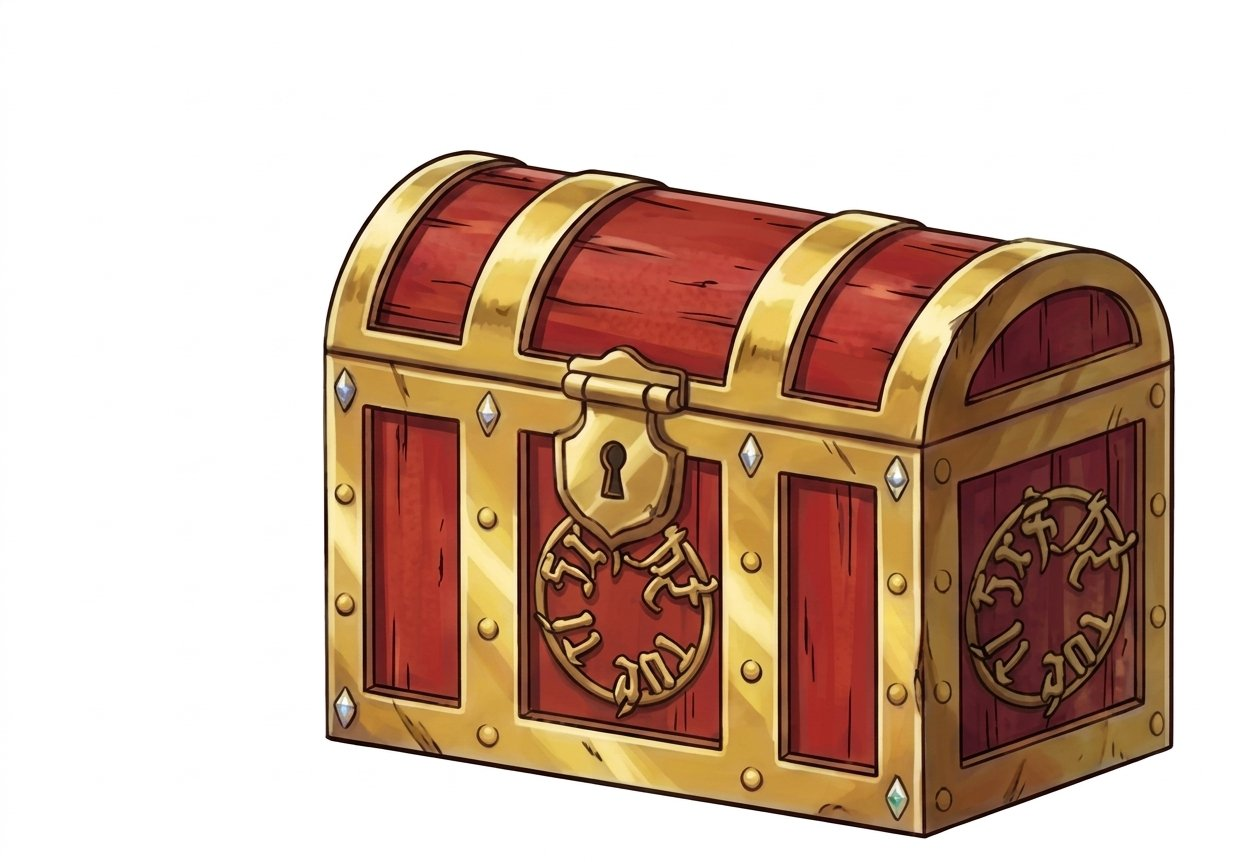
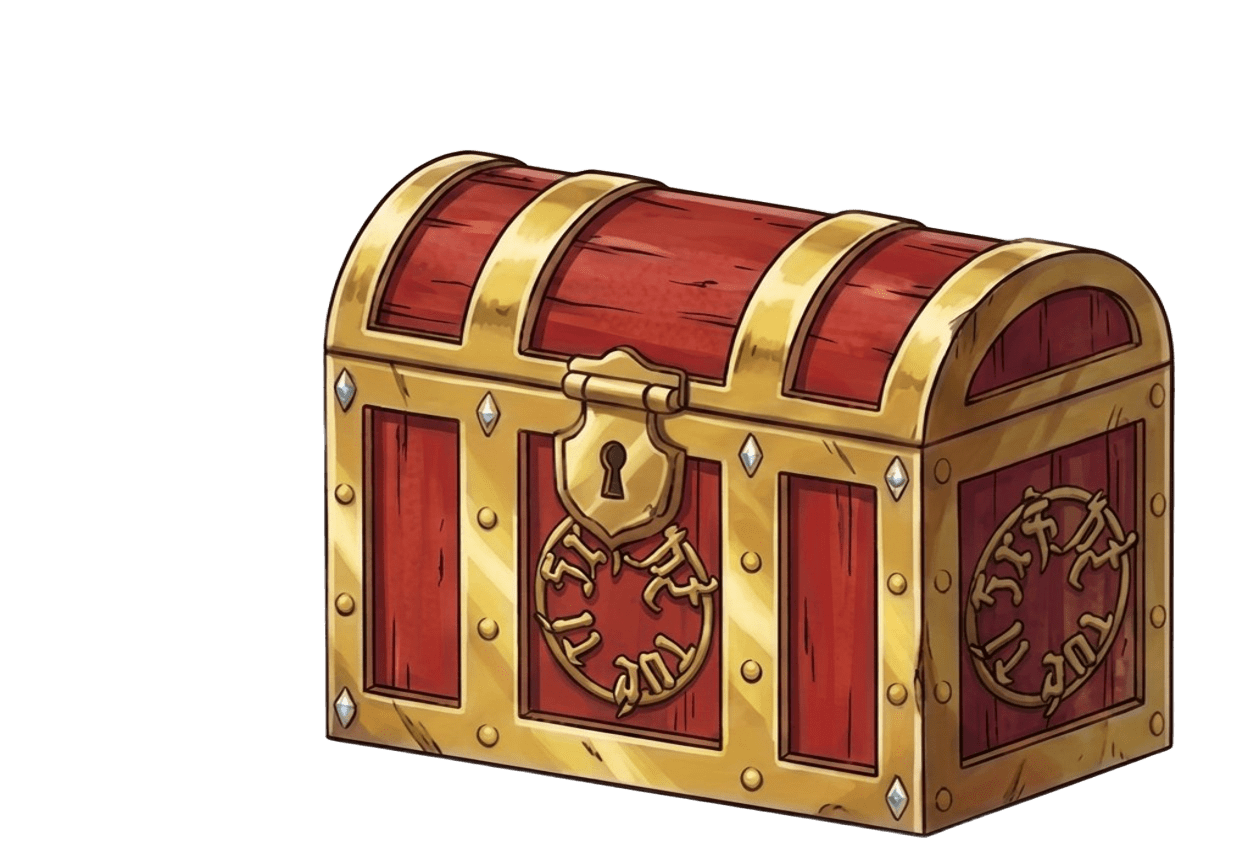
修正注音格式5

Changed region(s): [[0.7188, 0.9652, 0.75, 0.9954], [0.4062, 0.8747, 0.4375, 0.9049]]

diff --git a/js/games/typo.js b/js/games/typo.js
@@ -296,16 +296,16 @@ export class TypoGame extends GameEngine {
 
     // ── 步驟四：星星從寶箱飛出 ──
     const stage = overlay.querySelector('.typo-anim-stage');
-    const starsCount = Math.min(Math.max(Math.round(stars * 2), 5), 16);
+    const starsCount = Math.min(Math.max(Math.round(stars * 3), 10), 24);
     for (let i = 0; i < starsCount; i++) {
       const s = document.createElement('div');
       s.className = 'typo-fly-star';
-      s.textContent = '⭐';
-      const angle = (i / starsCount) * 360;
-      const dist = 80 + Math.random() * 60;
+      s.textContent = i % 3 === 0 ? '🌟' : '⭐';
+      const angle = (i / starsCount) * 360 + Math.random() * 15;
+      const dist = 120 + Math.random() * 100;
       s.style.setProperty('--angle', `${angle}deg`);
       s.style.setProperty('--dist', `${dist}px`);
-      s.style.animationDelay = `${i * 40}ms`;
+      s.style.animationDelay = `${i * 35}ms`;
       stage.appendChild(s);
     }
 
@@ -348,7 +348,7 @@ export class TypoGame extends GameEngine {
     let radical = q.radical ?? '';
     if (!radical) {
       try {
-        const chars = globalThis.JSONLoader?.get?.('characters') ?? [];
+        const chars = JSONLoader.get('characters') ?? [];
         const entry = chars.find(c => (c['字'] ?? c.char) === q.correct);
         radical = entry?.radical ?? entry?.['部首'] ?? '';
       } catch (_e) {}
@@ -389,7 +389,7 @@ export class TypoGame extends GameEngine {
       let radical = question.radical ?? '';
       if (!radical) {
         try {
-          const chars = globalThis.JSONLoader?.get?.('characters') ?? [];
+          const chars = JSONLoader.get('characters') ?? [];
           const entry = chars.find(c => (c['字'] ?? c.char) === question.correct);
           radical = entry?.radical ?? entry?.['部首'] ?? '？';
         } catch (_e) { radical = '？'; }
@@ -941,7 +941,7 @@ function _findWrongPos(sentence, wrongChar) {
 function _getRadical(explanation, correctChar) {
   // 從 JSONLoader 快取的 characters.json 查部首
   try {
-    const chars = globalThis.JSONLoader?.get?.('characters') ?? [];
+    const chars = JSONLoader.get('characters') ?? [];
     const entry = chars.find(c => (c['字'] ?? c.char) === correctChar);
     if (entry?.radical) return entry.radical;
     if (entry?.['部首']) return entry['部首'];
@@ -1219,7 +1219,7 @@ export function injectTypoStyles() {
     .typo-anim-overlay {
       position: fixed;
       inset: 0;
-      background: rgba(0,0,0,0.55);
+      background: rgba(0,0,0,0.65);
       z-index: 999;
       display: flex;
       align-items: center;
@@ -1228,22 +1228,23 @@ export function injectTypoStyles() {
     }
     .typo-anim-stage {
       position: relative;
-      width: 200px;
-      height: 200px;
+      width: min(80vw, 400px);
+      height: min(80vw, 400px);
       display: flex;
       align-items: center;
       justify-content: center;
     }
     .typo-anim-chest {
-      width: 140px;
-      height: 140px;
+      width: 85%;
+      height: 85%;
       object-fit: contain;
       position: relative;
       z-index: 2;
+      filter: drop-shadow(0 8px 32px rgba(0,0,0,0.5));
     }
     .typo-anim-key-emoji {
       position: absolute;
-      font-size: 3rem;
+      font-size: min(12vw, 5rem);
       top: 50%;
       left: 50%;
       transform: translate(-50%, -50%);
@@ -1252,13 +1253,13 @@ export function injectTypoStyles() {
     }
     .typo-fly-star {
       position: absolute;
-      font-size: 1.4rem;
+      font-size: min(6vw, 2rem);
       top: 50%;
       left: 50%;
       pointer-events: none;
-      animation: typoStarFly 1.0s ease-out forwards;
+      animation: typoStarFly 1.2s ease-out forwards;
       --angle: 0deg;
-      --dist: 100px;
+      --dist: min(40vw, 180px);
     }
 
     @keyframes typoChestZoomIn {
@@ -1485,17 +1486,18 @@ export function injectTypoStyles() {
       100% { transform: translate(-50%,-50%) scale(1);   opacity:1; }
     }
     .typo-star-popup {
-      position: fixed;
-      top: 40%;
+      position: absolute;
+      top: 50%;
       left: 50%;
-      transform: translateX(-50%);
-      font-size: 1.8rem;
+      transform: translate(-50%, -50%);
+      font-size: min(12vw, 3.5rem);
       font-weight: 900;
       color: #f5c842;
-      text-shadow: 0 2px 8px rgba(0,0,0,0.25);
-      animation: starFloat 1.2s ease forwards;
-      z-index: 101;
+      text-shadow: 0 4px 16px rgba(0,0,0,0.5), 0 0 24px #fff;
+      animation: starFloat 1.4s ease forwards;
+      z-index: 10;
       pointer-events: none;
+      white-space: nowrap;
     }
     @keyframes starFloat {
       0%   { opacity:0; transform: translateX(-50%) translateY(0); }

diff --git a/js/games/polyphone.js b/js/games/polyphone.js
@@ -696,6 +696,21 @@ export class PolyphoneGame extends GameEngine {
     }
   }
 
+  // 覆寫 updateProgress：多音判斷不使用預設連續3/5/10題bonus顯示，只在10倍數顯示
+  updateProgress() {
+    super.updateProgress();
+    // 蓋掉 GameEngine 預設 bonus bar（只有 10 的倍數才在 onCorrect 裡顯示）
+    const bonusBar = document.getElementById('game-bonus-bar');
+    if (bonusBar) {
+      const c = this.consecutiveCorrect;
+      if (c > 0 && c % 10 === 0) {
+        // 剛好 10 倍數：保留 onCorrect 設的文字
+      } else {
+        bonusBar.style.display = 'none';
+      }
+    }
+  }
+
   // ════════════════════════════════════════════
   // playCorrectAnimation — 爆炸特效（由 GameEngine.onCorrect 呼叫）
   // ════════════════════════════════════════════

diff --git a/js/games/strokes_count.js b/js/games/strokes_count.js
@@ -462,6 +462,20 @@ export class StrokesCountGame extends GameEngine {
     }
   }
 
+  // 覆寫 updateProgress：算出筆劃不使用預設連續3/5/10題bonus顯示，只在5倍數顯示
+  updateProgress() {
+    super.updateProgress();
+    const bonusBar = document.getElementById('game-bonus-bar');
+    if (bonusBar) {
+      const c = this.consecutiveCorrect;
+      if (c > 0 && c % 5 === 0) {
+        // 剛好 5 倍數：保留 onCorrect 設的文字
+      } else {
+        bonusBar.style.display = 'none';
+      }
+    }
+  }
+
   // ════════════════════════════════════════════
   // onWrongFirstTime — 覆寫：第一次答錯，顯示錯誤動畫，可再試
   // ════════════════════════════════════════════

diff --git a/js/games/writing.js b/js/games/writing.js
@@ -1255,6 +1255,12 @@ function injectWritingStyles() {
       line-height: 1.5;
     }
 
+    /* 提示詞語中 pv2 注音輕聲˙ 往上移 */
+    .writing-hint-zhuyin .pv2-dot,
+    .writing-hint-words .pv2-dot {
+      top: -0.7em;
+    }
+
     /* ── 動畫：魔法書光芒（答對） ── */
     @keyframes bookGlow {
       0%   { box-shadow: 0 0 0 0 rgba(108,99,255,0); }

diff --git a/sw.js b/sw.js
@@ -17,7 +17,7 @@
  *   - 修正：只快取完整的 200 回應，206 讓瀏覽器直接使用，不存快取
  */
 
-const APP_VERSION = '1.0.57'
+const APP_VERSION = '1.0.58'
 const CACHE_NAME  = `happylearn-v${APP_VERSION}`
 
 // ── 預快取清單 ──

diff --git a/version.js b/version.js
@@ -15,4 +15,4 @@
  */
 
 // 應用程式版本號（遵循 Semantic Versioning：major.minor.patch）
-export const APP_VERSION = '1.0.57'
+export const APP_VERSION = '1.0.58'
